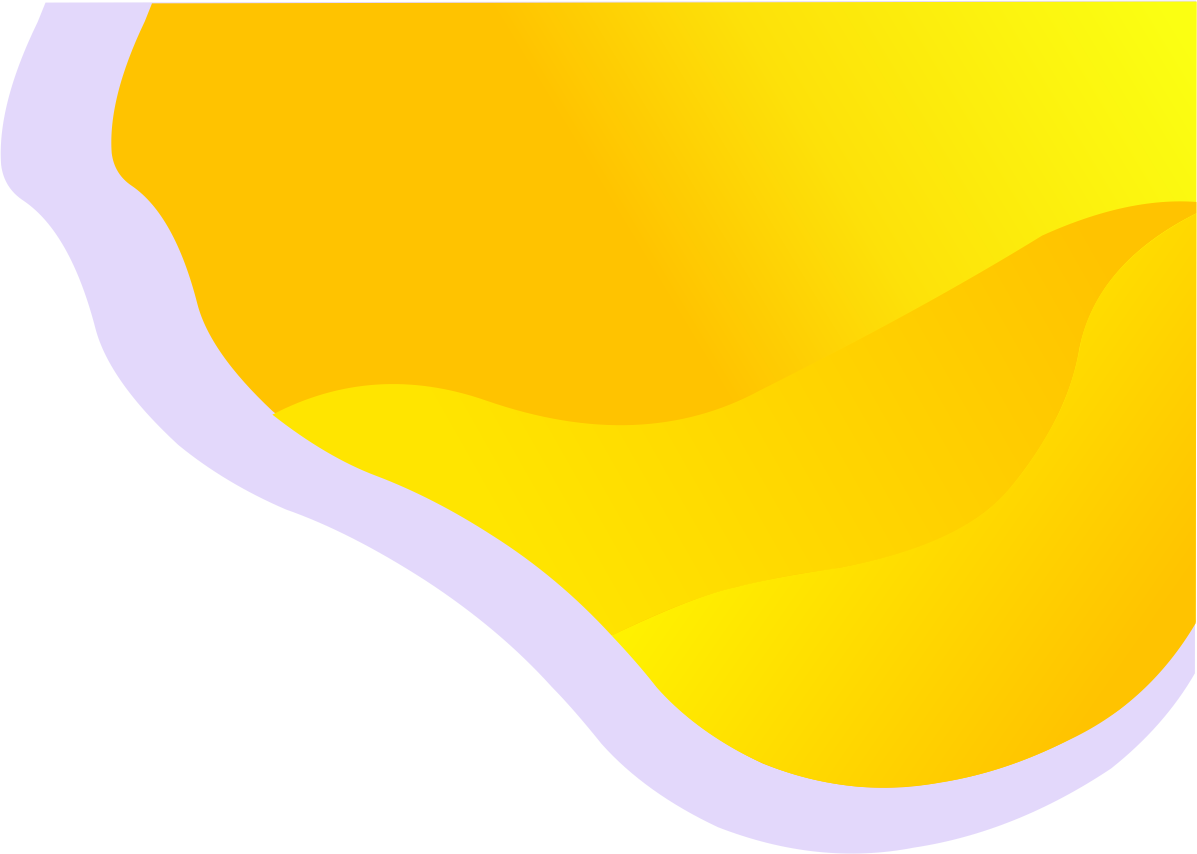
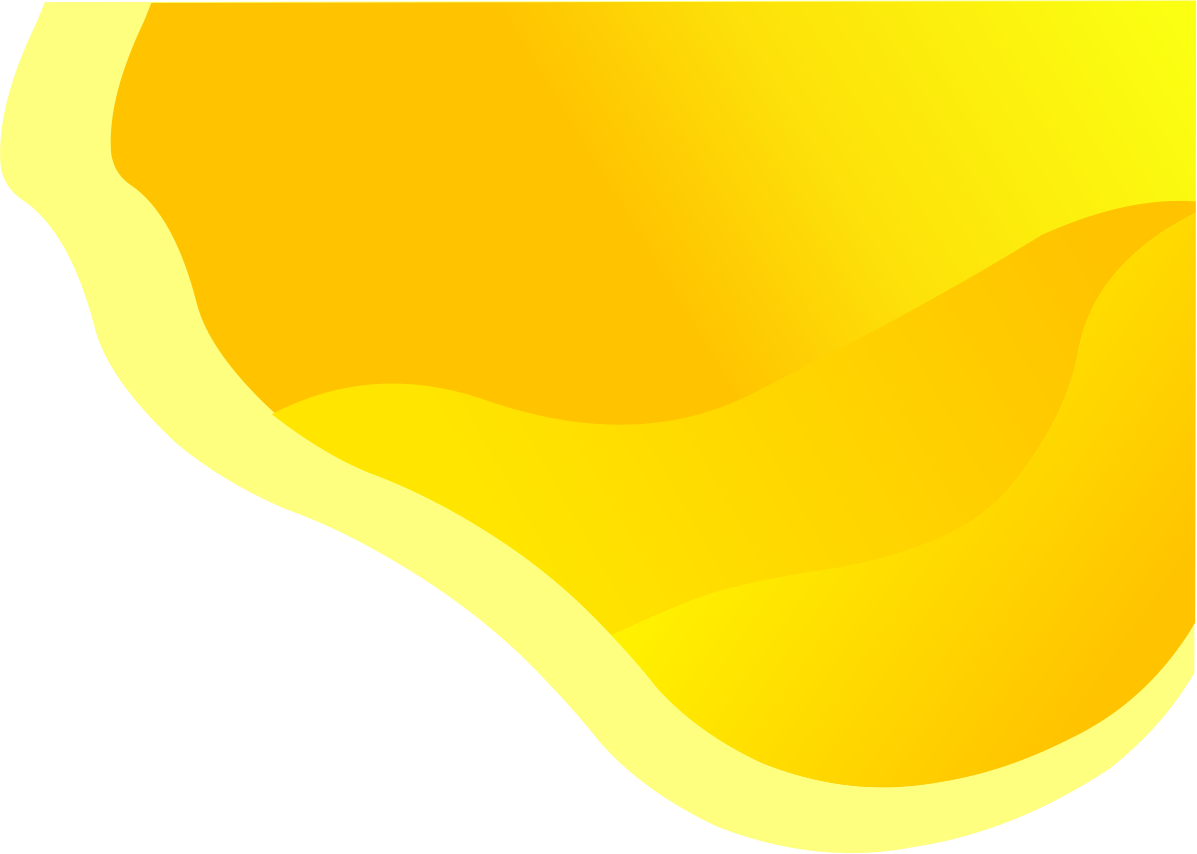
ganti warna

diff --git a/OrenzLaundry/application/views/User/index.php b/OrenzLaundry/application/views/User/index.php
@@ -229,8 +229,8 @@
 
 <!-- screenshort area start -->
 <section class="screenshort-area" id="mobile">
-        <div class="shape-1"><img src="<?=base_url()?>assets/user/img/shape/08.png" alt=""></div>
-        <div class="shape-2"><img src="<?=base_url()?>assets/user/img/shape/09.png" alt=""></div>
+        <div class="shape-1"><img src="<?=base_url()?>assets/user/img/shape/8.png" alt=""></div>
+        <div class="shape-2"><img src="<?=base_url()?>assets/user/img/shape/9.png" alt=""></div>
     <div class="container">
         <div class="row justify-content-center">
             <div class="col-lg-10">
